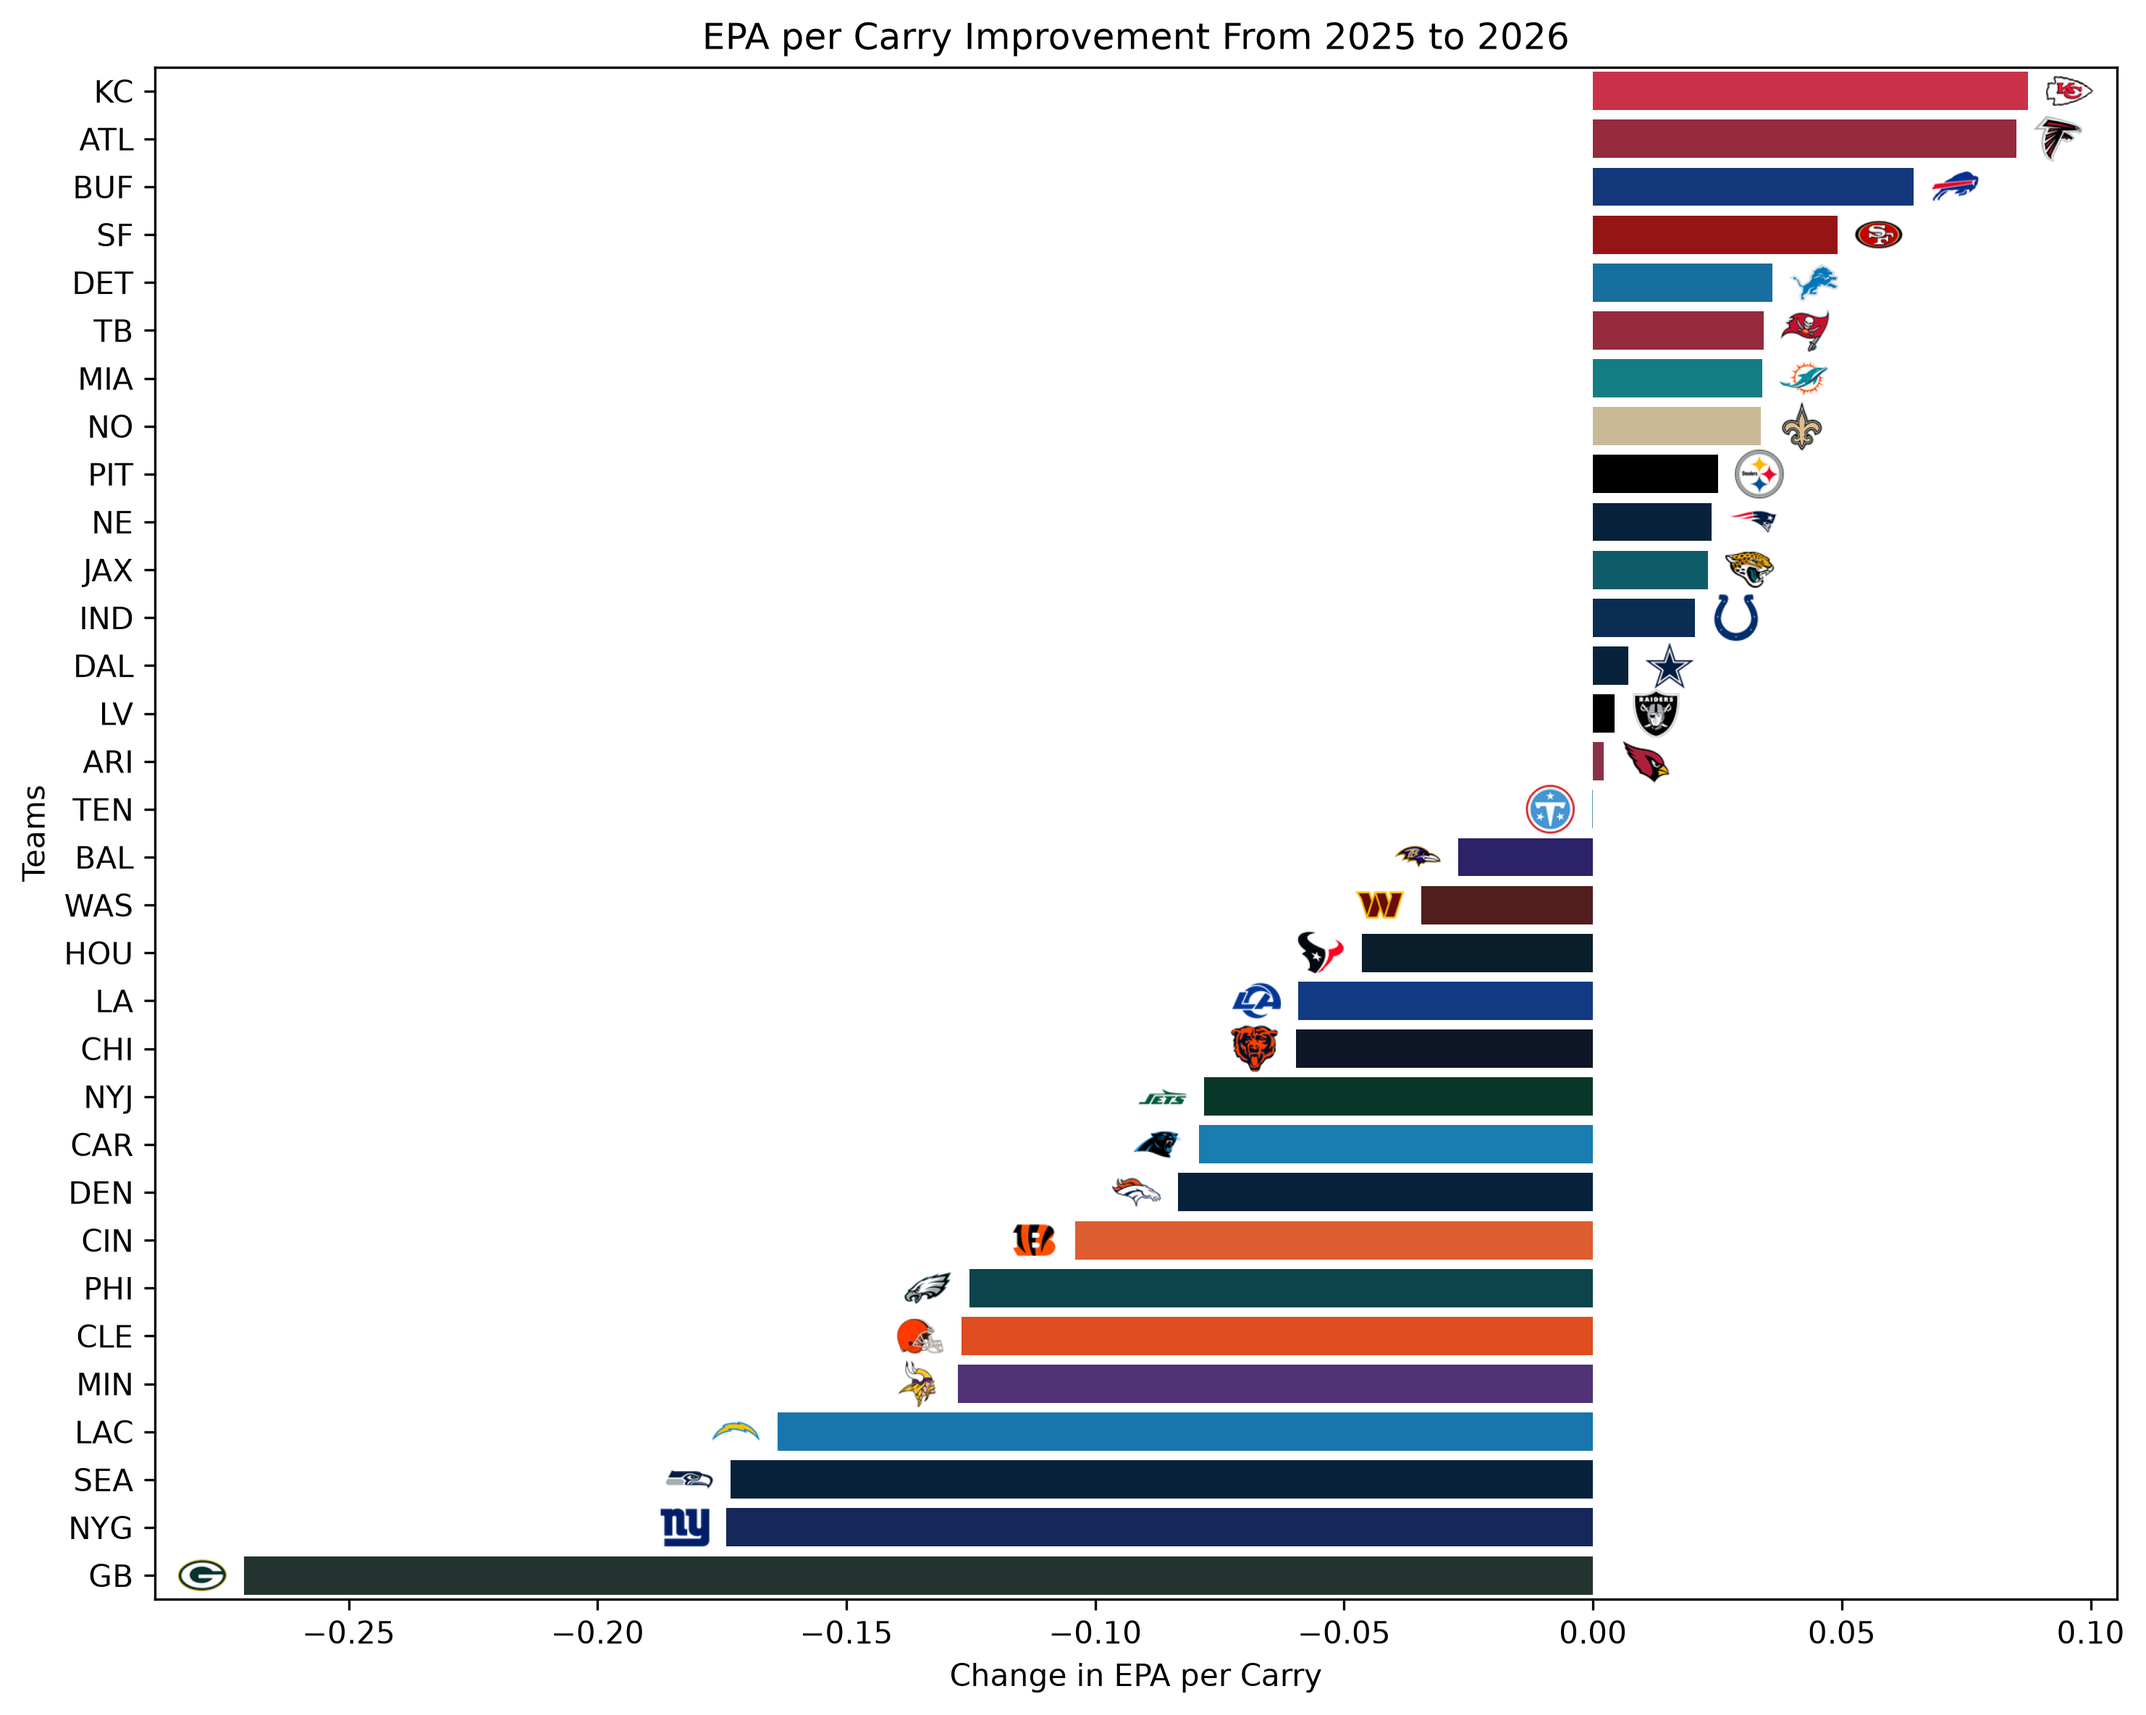
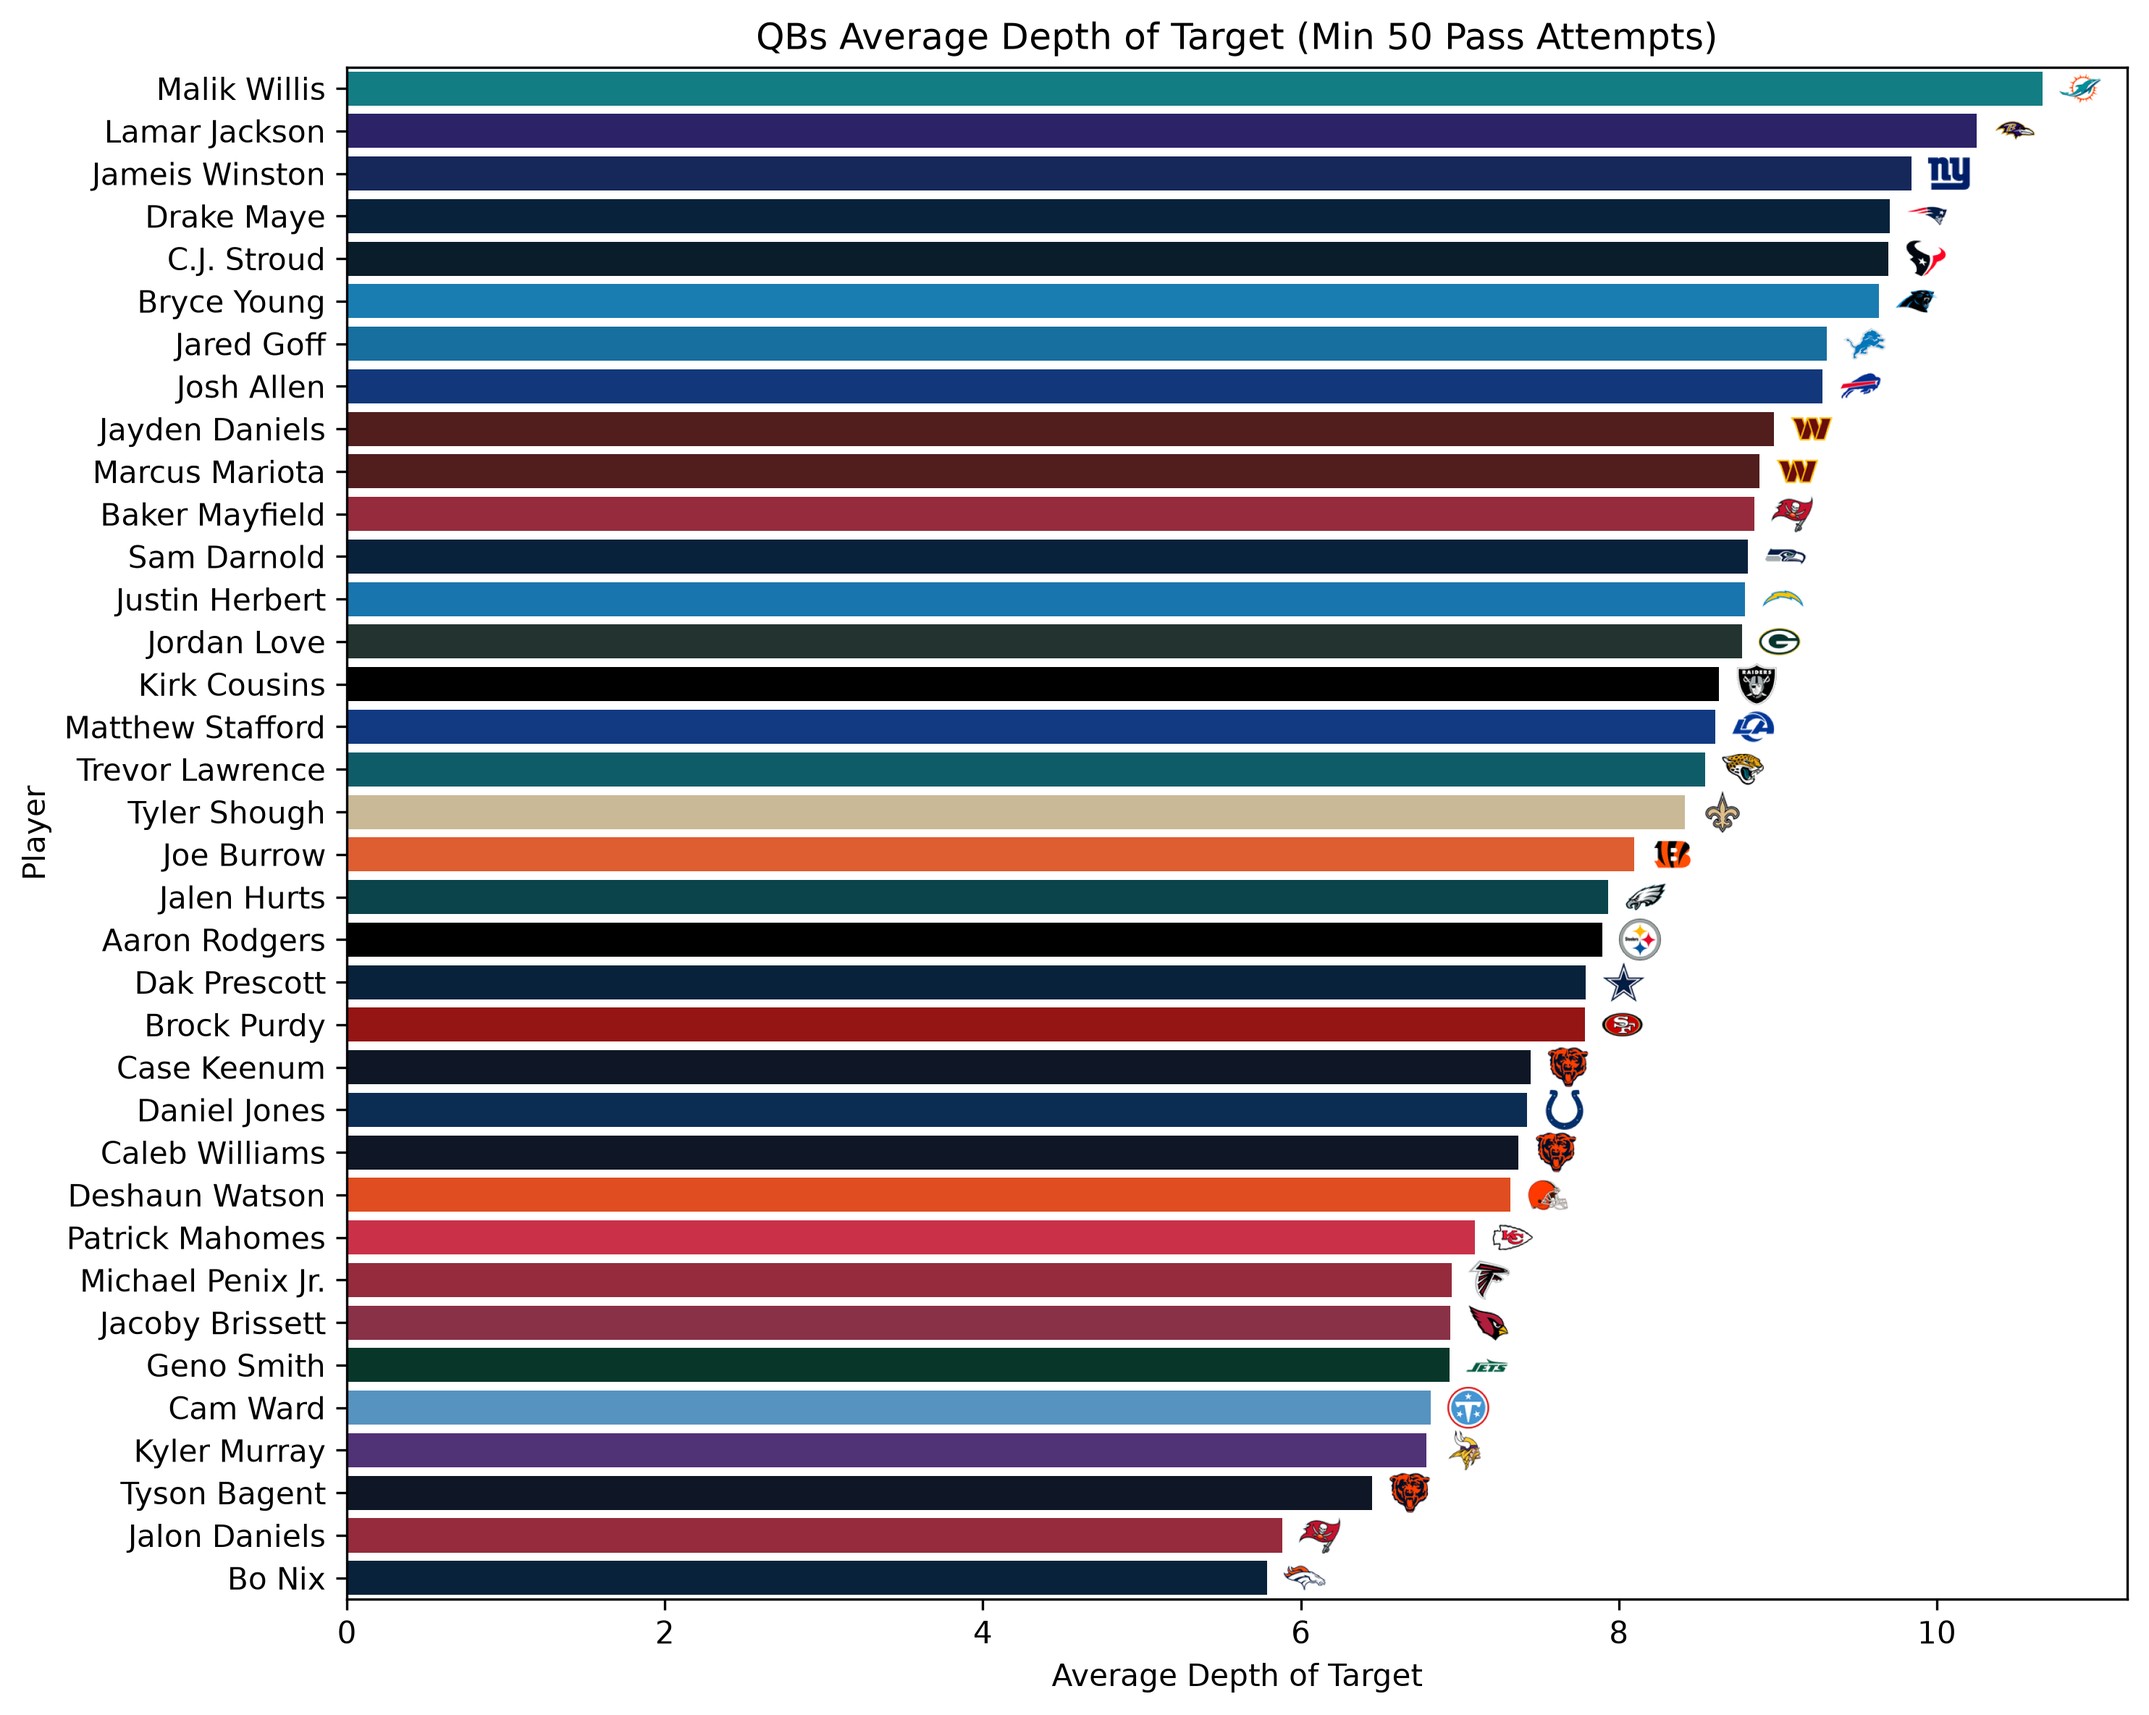
finished avg_depth_target

diff --git a/Football Projects/avg_depth_target.py b/Football Projects/avg_depth_target.py
@@ -1,0 +1,81 @@
+import matplotlib.pyplot as plt
+import nflreadpy as nfl
+import polars as pl
+import seaborn as sns
+from matplotlib.offsetbox import OffsetImage, AnnotationBbox
+from PIL import Image
+import requests
+from io import BytesIO
+#initialize nextgen stats
+next_gen = nfl.load_nextgen_stats(
+    seasons=2026
+)
+
+teams = nfl.load_teams()
+
+#initialize data set needed
+depth = (
+    next_gen
+    .filter((pl.col("player_position") == "QB") & (pl.col("attempts") >= 50))
+    .join(teams, left_on='team_abbr', right_on='team_abbr', how='inner')
+    .group_by(["player_display_name", "team_abbr", "team_color", "team_logo_espn"])
+    .agg(pl.col("avg_intended_air_yards").mean())
+    .sort("avg_intended_air_yards", descending=True)
+    .select(["player_display_name", "avg_intended_air_yards", "team_logo_espn", "team_abbr", "team_color"])
+    .to_pandas()
+)
+
+
+
+plt.figure(figsize=(10,8))
+
+#make bar plot
+ax = sns.barplot(
+    data=depth,
+    x="avg_intended_air_yards",
+    y="player_display_name",
+    hue="player_display_name",
+    palette=depth["team_color"].tolist(),
+    legend=False
+)
+#put logos
+for i, row in enumerate(depth.itertuples()):
+
+    response = requests.get(row.team_logo_espn, timeout=5)
+    img = Image.open(BytesIO(response.content)).convert("RGBA")
+
+    img = img.resize((50, 50), Image.Resampling.LANCZOS)
+
+    imagebox = OffsetImage(img, zoom=0.30)
+
+
+    offset = 5
+    alignment = (0, 0.5)
+
+
+    ab = AnnotationBbox(
+        imagebox,
+        (row.avg_intended_air_yards, i),
+        frameon=False,
+        box_alignment=alignment,
+        xybox=(offset, 0),
+        xycoords="data",
+        boxcoords="offset points"
+    )
+
+    ax.add_artist(ab)
+
+
+plt.xlabel('Average Depth of Target')
+plt.ylabel('Player')
+plt.title("QBs Average Depth of Target (Min 50 Pass Attempts)")
+
+plt.tight_layout()
+
+
+plt.savefig(
+    "Graphs/rushing_epa_improvement.png",
+    dpi=300,
+    bbox_inches="tight"
+)
+plt.show()

diff --git a/Football Projects/rushing_epa_improvement.py b/Football Projects/rushing_epa_improvement.py
@@ -89,9 +89,7 @@ for i, row in enumerate(epa.itertuples()):
     if row.epa_per_carry_change >= 0:
         offset = 5
         alignment = (0, 0.5)
-    else:
-        offset = -5
-        alignment = (1, 0.5)
+
 
     ab = AnnotationBbox(
         imagebox,
